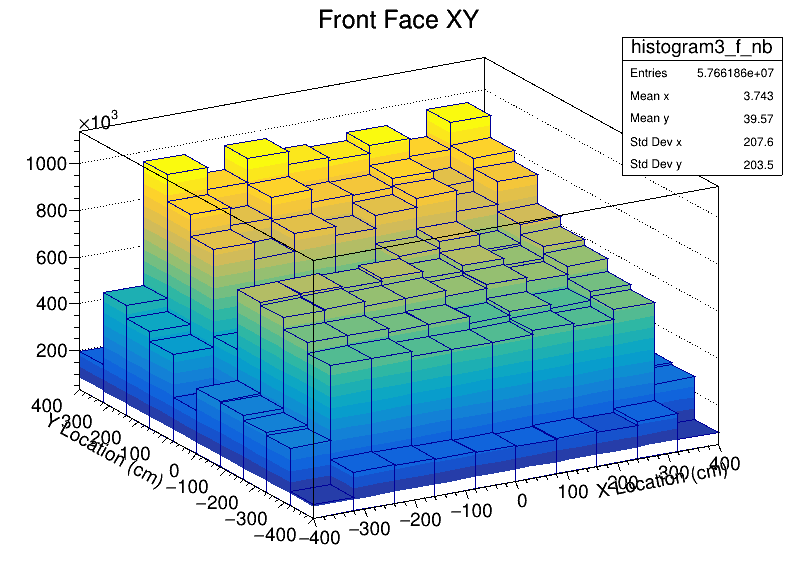
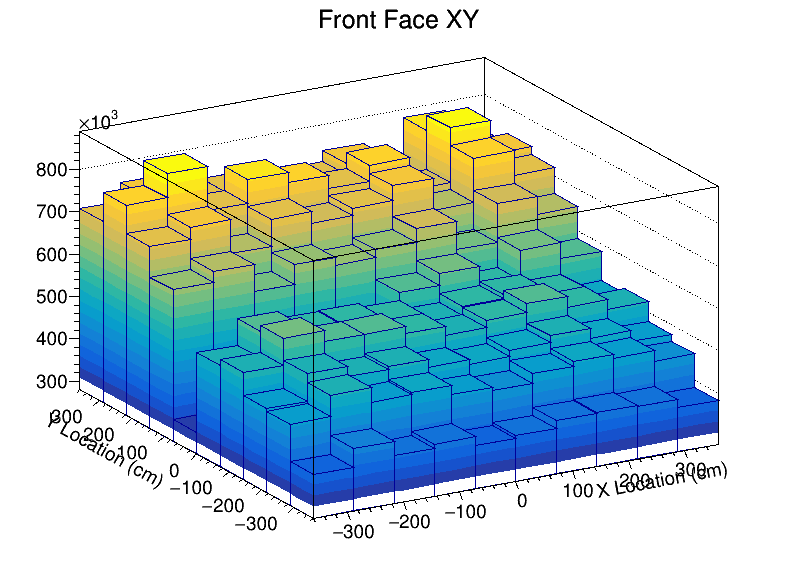
new x,y boundaries for the 2D histograms in 3D space.

diff --git a/CRT_Dataset2/AllData3DHist.C b/CRT_Dataset2/AllData3DHist.C
@@ -70,27 +70,27 @@ void fit_gaussian1D(TH1F* histogram) {
 void AllData3DHist() {
 	TChain chain("crtana/tree"); // Ensure "myTree" is the correct name of your TTree
 	chain.Add("/pnfs/sbnd/persistent/users/hlay/crt_comm_summer_2024/run13*_crtana.root"); // Replace with your file path pattern
-	TH1F *histogram1_f_nb = new TH1F("histogram1_f_nb", "Front Face X;No Beam", 10, -400, 400);
+	TH1F *histogram1_f_nb = new TH1F("histogram1_f_nb", "Front Face X;No Beam", 10, -360, 360);
 	histogram1_f_nb->GetXaxis()->SetTitle("X Location (cm)");
     	histogram1_f_nb->GetYaxis()->SetTitle("Number of Hits");
 
-	TH1F *histogram2_f_nb = new TH1F("histogram2_f_nb", "Front Face Y;No Beam", 10, -400, 400);
+	TH1F *histogram2_f_nb = new TH1F("histogram2_f_nb", "Front Face Y;No Beam", 10, -360, 360);
 	histogram2_f_nb->GetXaxis()->SetTitle("Y Location (cm)");
         histogram2_f_nb->GetYaxis()->SetTitle("Number of Hits");
 
-	TH2F *histogram3_f_nb = new TH2F("histogram3_f_nb", "Front Face XY;No Beam", 10, -400, 400, 10, -400, 400);
+	TH2F *histogram3_f_nb = new TH2F("histogram3_f_nb", "Front Face XY;No Beam", 10, -360, 360, 10, -360, 360);
 	histogram3_f_nb->GetXaxis()->SetTitle("X Location (cm)");
         histogram3_f_nb->GetYaxis()->SetTitle("Y Location (cm)");
 
-	TH1F *histogram4_f_tc = new TH1F("histogram4_f_tc", "Front Face X; Time Cut", 10, -400, 400);
+	TH1F *histogram4_f_tc = new TH1F("histogram4_f_tc", "Front Face X; Time Cut", 10, -360, 360);
         histogram4_f_tc->GetXaxis()->SetTitle("X Location (cm)");
         histogram4_f_tc->GetYaxis()->SetTitle("Number of Hits");
 
-	TH1F *histogram5_f_tc = new TH1F("histogram5_f_tc", "Front Face Y; Time Cut", 10, -400, 400);
+	TH1F *histogram5_f_tc = new TH1F("histogram5_f_tc", "Front Face Y; Time Cut", 10, -360, 360);
         histogram5_f_tc->GetXaxis()->SetTitle("Y Location (cm)");
         histogram5_f_tc->GetYaxis()->SetTitle("Number of Hits");
 
-	TH2F *histogram6_f_tc = new TH2F("histogram6_f_tc", "Front Face XY; Time Cut", 10, -400, 400, 10, -400, 400);
+	TH2F *histogram6_f_tc = new TH2F("histogram6_f_tc", "Front Face XY; Time Cut", 10, -360, 360, 10, -360, 360);
 	histogram6_f_tc->GetXaxis()->SetTitle("X Location (cm)");
         histogram6_f_tc->GetYaxis()->SetTitle("Y Location (cm)");
 	//histogram6_f_tc->SetContour(contours.size(), contours.data());
@@ -120,6 +120,7 @@ void AllData3DHist() {
     	chain.SetBranchAddress("cl_sp_ts1", &cl_sp_ts1);
 	
 	//gStyle->SetNumberContours(1);
+	gStyle->SetOptStat(0);
 	Long64_t nEntries = chain.GetEntries();
 
 	for (Long64_t i = 0; i < nEntries; ++i) {
@@ -138,23 +139,23 @@ void AllData3DHist() {
 			}
 			
 			if (1529e3 < t1 && t1 < 1534e3) {
-				if (y > -350 && -370 < x && x < 370) {
+				//if (y > -350 && -370 < x && x < 370) {
 					if (-200 < z && z < -100) {
 						histogram4_f_tc->Fill(x);
 						histogram5_f_tc->Fill(y);
 						histogram6_f_tc->Fill(x,y);
 					}
-				}
+				//}
 			}
 			
 			if (0 < t1 && t1 < 1529e3 || 1534e3 < t1 && t1 < 1000e6) {
-				if (y > -350 && -370 < x && x < 370) {  // cut off feet of detector
+				//if (y > -350 && -370 < x && x < 370) {  // cut off feet of detector
                     			if (-200 < z && z < -100) {
                         			histogram1_f_nb->Fill(x);
                         			histogram2_f_nb->Fill(y);
                         			histogram3_f_nb->Fill(x, y);
                     			}
-                		}
+                		//}
             		}
         	}
     	}
